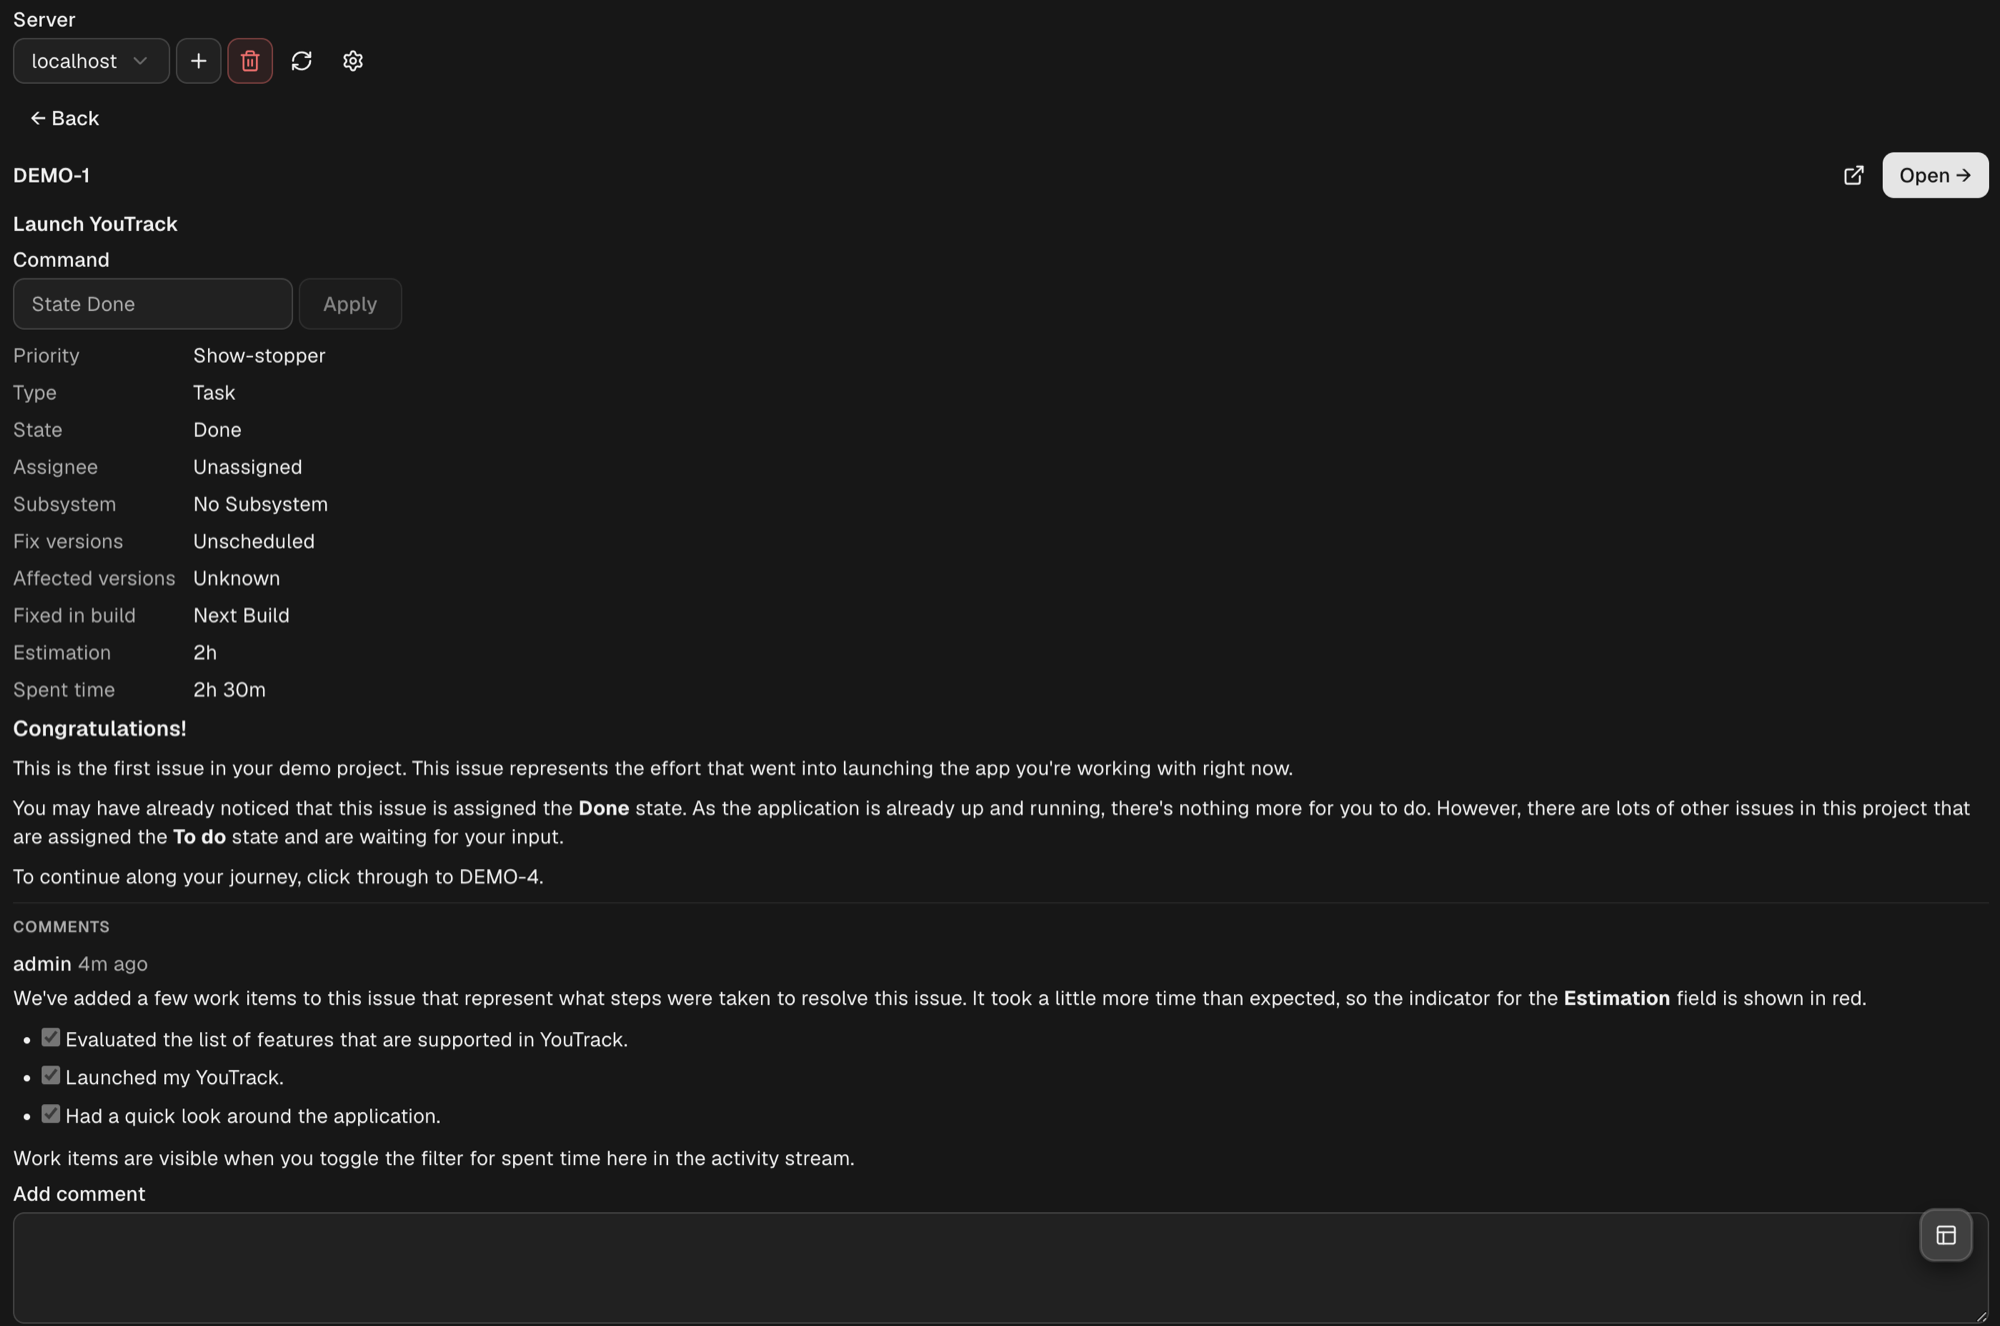
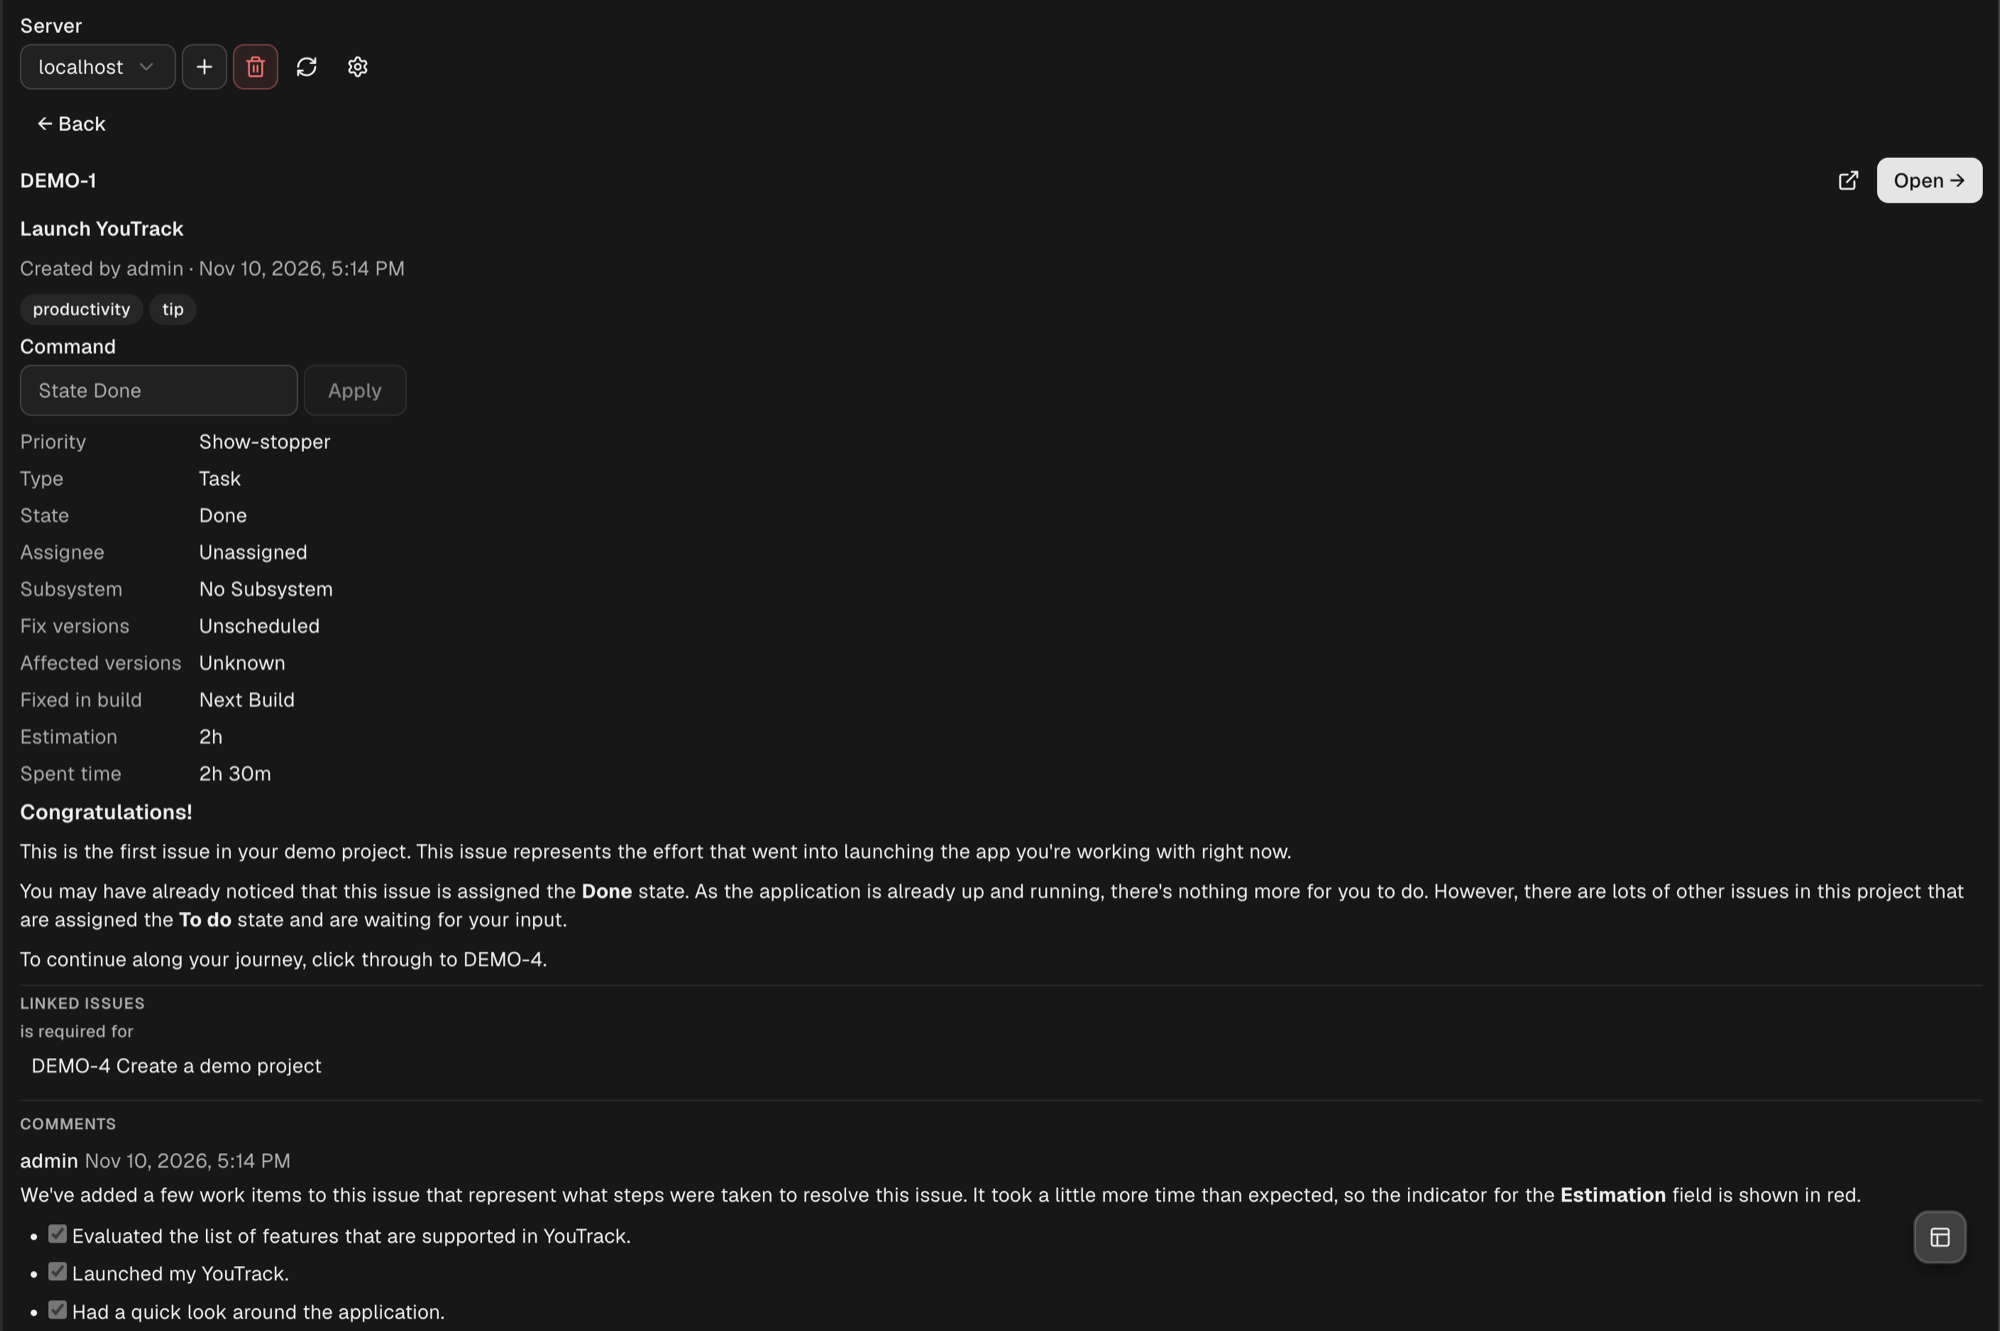
docs: update the screenshots

Changed region(s): [[0.0, 0.0, 1.0, 1.0], [0.0, 0.0, 0.186, 0.0928], [0.155, 0.2783, 0.186, 0.3092]]

diff --git a/README.md b/README.md
@@ -9,7 +9,7 @@ This is an unofficial plugin.
 
 | Issue details | Start work on an issue |
 | --- | --- |
-| ![The detail of an issue: its fields, description and comments, with Apply command and Add comment](images/issue-detail.png) | ![The Start view: Run in New worktree, project, name, Create from, workspace, agent, the prompt switches, template and the editable prompt](images/start.png) |
+| ![The detail of an issue: creator, tags, Apply command, fields, description, linked issues and comments](images/issue-detail.png) | ![The Start view: Run in New worktree, project, name, Create from, workspace, agent, the prompt switches, template and the editable prompt](images/start.png) |
 
 ## Install
 
